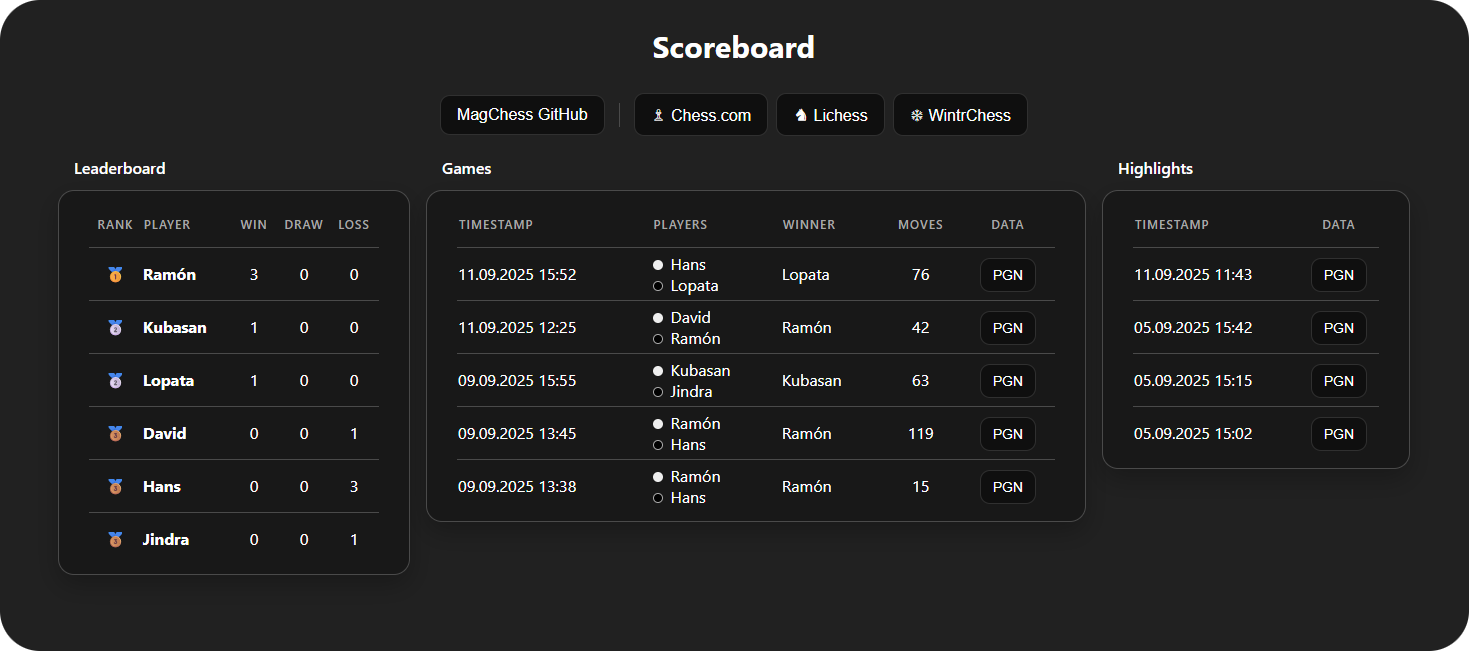
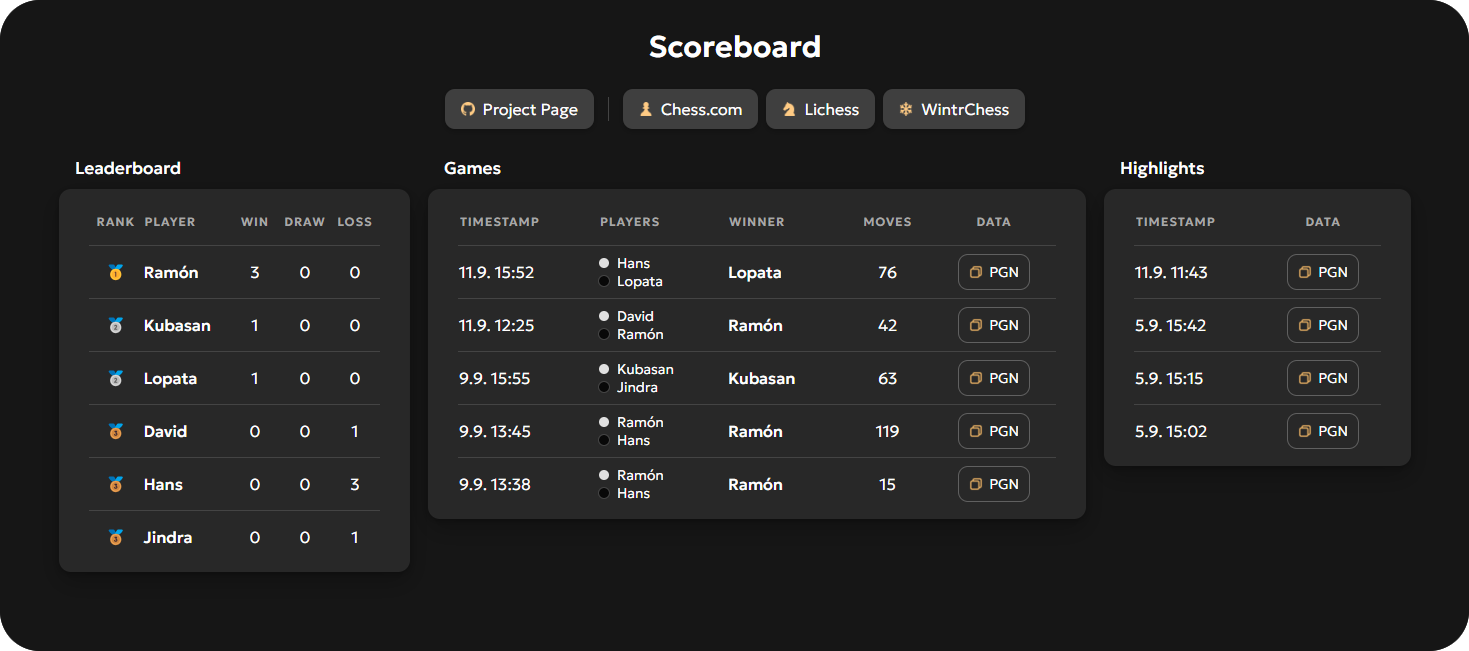
scoreboard css v2

diff --git a/scoreboard/src/styles/global.css b/scoreboard/src/styles/global.css
@@ -1,17 +1,21 @@
 :root {
-    --bg: #212121;
-    --panel: #181818;
+    --bg: #161616;
+    --panel:  #282828;
     --text: #ffffff;
     --muted: #a8a8a8;
-    --border: #4a4a4a;
-    --accent: #ffffff;
-    --danger: #ef4444;
-    --radius: 16px;
-    --shadow: 0 10px 25px rgba(0, 0, 0, 0.25);
+    --border: #444444;
+    --accent: #ffc16b;
+    --radius: 12px;
+    --shadow: 0 10px 25px rgba(0, 0, 0, 0.25), 0 2px 6px rgba(0, 0, 0, 0.25);
 }
 
 * {
     box-sizing: border-box;
+    color: var(--text);
+    font: 16px Geologica, sans-serif;
+    font-weight: 300;
+    -webkit-font-smoothing: antialiased;
+    -moz-osx-font-smoothing: grayscale;
 }
 
 html,
@@ -22,18 +26,6 @@ body {
 body {
     margin: 0;
     background: var(--bg);
-    color: var(--text);
-    font:
-        16px/1.5 system-ui,
-        -apple-system,
-        Segoe UI,
-        Roboto,
-        Ubuntu,
-        Cantarell,
-        Noto Sans,
-        sans-serif;
-    -webkit-font-smoothing: antialiased;
-    -moz-osx-font-smoothing: grayscale;
 }
 
 a {
@@ -51,23 +43,17 @@ header {
     flex-direction: column;
     align-items: center;
     gap: 24px;
-    margin-bottom: 20px;
+    margin-bottom: 28px;
 }
 
 .title {
-    font-weight: 700;
+    font-weight: 600;
     font-size: 30px;
     letter-spacing: 0.2px;
 }
 
-.sub {
-    color: var(--muted);
-    font-size: 14px;
-}
-
 .card {
     background: var(--panel);
-    border: 1px solid var(--border);
     border-radius: var(--radius);
     box-shadow: var(--shadow);
     padding: 10px 10px 0px 20px;
@@ -87,13 +73,13 @@ header {
 .stack {
     display: grid;
     grid-template-columns: 1.6fr 3.0fr 1.4fr;
-    gap: 16px;
+    gap: 18px;
 }
 
 h2 {
     padding-left: 16px;
-    font-size: 16px;
-    font-weight: 600;
+    font-size: 17px;
+    font-weight: 500;
     margin: 0 0 10px;
 }
 
@@ -134,43 +120,58 @@ tbody tr:last-child td {
     padding-bottom: 10px;
 }
 
-tbody tr:hover {
-    background: rgba(255, 255, 255, 0.03);
+tbody td .player {
+    font-size: 14px;
+    display: flex;
+    align-items: center;
 }
 
-tbody td .player {
-    line-height: normal;
+strong {
+    font-weight: 500;
 }
 
 .btn {
-    border: 1px solid #303030;
-    /* border: none; */
+    border: none;
     color: var(--text);
     border-radius: 10px;
     cursor: pointer;
-    display: inline-flex;
+    display: flex;
     align-items: center;
-    background: #0f0f0f;
-    gap: 8px;
     transition: all 0.1s ease;
+    justify-content: center;
 }
 
-.btn:hover {
-    background: #1a1a1a;
-    border-color: #6b6b6b;
+.btn img {
+    width: 14px;
+    height: 14px;
 }
 
 .btn.link {
+    background: #3f3f3f;
     padding: 10px 16px;
     font-size: 16px;
+    gap: 8px;
+    box-shadow: 0 2px 6px rgba(0, 0, 0, 0.25);
+}
+
+.btn.link:hover {
+    background: #515151;
 }
 
 .btn.copy {
-    padding: 8px 12px;
+    border: 1px solid #606060;
+    background: transparent;
+    padding: 8px 10px;
     font-size: 14px;
+    gap: 6px;
 }
 
-.btn.success {
+.btn.copy:hover {
+    background: #333333;
+    border-color: #6a6a6a;
+}
+
+.btn.copy.success {
     border-color: var(--accent);
 }
 
@@ -183,12 +184,12 @@ tbody td .player {
 }
 
 .dot.black {
-    background: #000000;
-    border: 1px solid #aaa;
+    background: #080808;
+    outline: 1px solid var(--border);
 }
 
 .dot.white {
-    background: #eee;
+    background: #e0e0e0;
 }
 
 .toolbar {
@@ -198,10 +199,12 @@ tbody td .player {
 }
 
 .toolbar .spacer {
-    flex: 1;
+    width: 1px;
+    height: 24px;
+    background: var(--border);
+    margin: 0 6px;
 }
 
-/* Toast */
 .toast {
     position: fixed;
     bottom: 16px;
@@ -209,9 +212,8 @@ tbody td .player {
     transform: translateX(-50%);
     background: var(--panel);
     color: var(--text);
-    border: 1px solid var(--border);
     border-radius: 12px;
-    padding: 10px 14px;
+    padding: 14px 20px;
     box-shadow: var(--shadow);
     opacity: 0;
     pointer-events: none;
@@ -222,20 +224,15 @@ tbody td .player {
     opacity: 1;
 }
 
-.vert-separator {
-    width: 1px;
-    height: 24px;
-    background: var(--border);
-    margin: 0 6px;
-}
-
-@media (max-width: 900px) {
+@media (max-width: 768px) {
     .stack {
         grid-template-columns: 1fr;
     }
 
-    table.games tbody td:nth-child(1),
-    table.games thead th:nth-child(1) {
+    table.games tbody td:nth-child(3),
+    table.games thead th:nth-child(3),
+    table.games tbody td:nth-child(4),
+    table.games thead th:nth-child(4) {
         display: none;
     }
 
@@ -245,12 +242,11 @@ tbody td .player {
         width: 100%;
     }
 
-    .toolbar .vert-separator {
+    .toolbar .spacer {
         display: none;
     }
 
     .toolbar .btn {
-        display: block;
         width: 100%;
     }
 }

diff --git a/scoreboard/src/scripts/utilities.ts b/scoreboard/src/scripts/utilities.ts
@@ -2,14 +2,13 @@ export function formatTimestamp(ts: string)
 {
     const date = new Date(ts);
     const dateFormat = new Intl.DateTimeFormat('cs-CZ', {
-        day: '2-digit',
-        month: '2-digit',
-        year: 'numeric',
+        day: 'numeric',
+        month: 'numeric',
         hour: '2-digit',
         minute: '2-digit',
         hourCycle: 'h23', // ensure 00–23
     });
 
     const parts = Object.fromEntries(dateFormat.formatToParts(date).map(p => [p.type, p.value]));
-    return `${parts.day}.${parts.month}.${parts.year} ${parts.hour}:${parts.minute}`;
+    return `${parts.day}.${parts.month}. ${parts.hour}:${parts.minute}`;
 }
